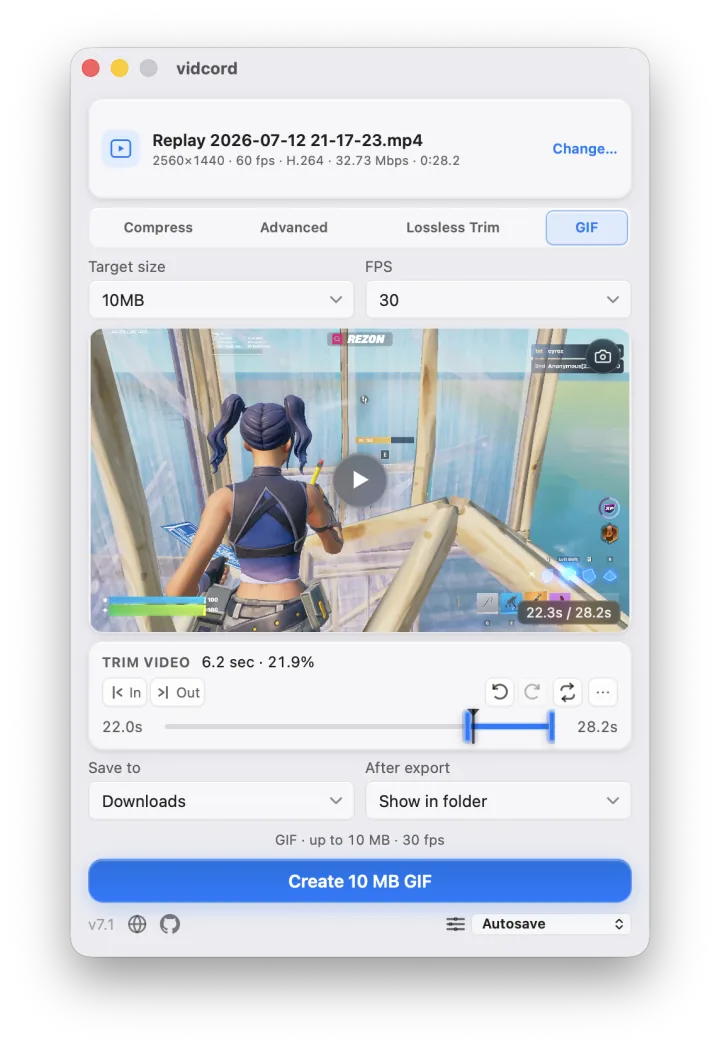
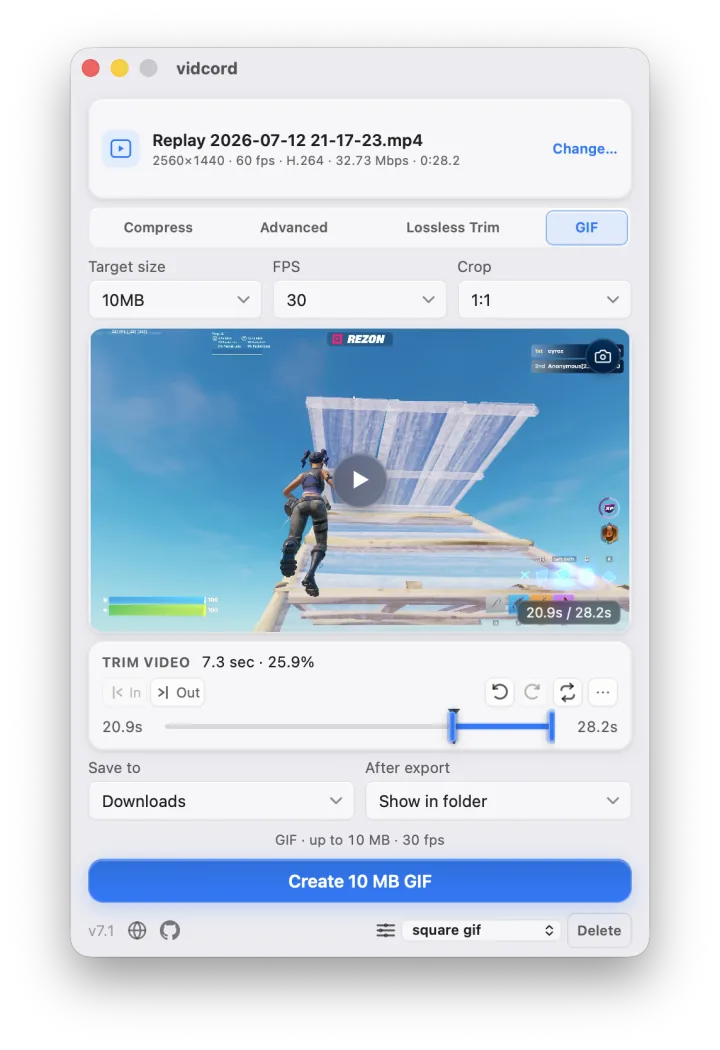
Keep crop selector visible in GIF Mode

diff --git a/site/index.html b/site/index.html
@@ -94,7 +94,7 @@
               "Saved named compression and mode presets with Autosave, restore, and delete controls",
               "Lossless Trim stream-copy exports with outward keyframe-aligned boundaries and optional audio-track removal",
               "Discord upload targets: current 10 MB, 50 MB, 100 MB, and 500 MB limits plus a legacy 25 MB target",
-              "Animated GIF exports for Discord's 10 MB Free and 50 MB Nitro Basic tiers at 15, 30, or Discord-safe maximum 50 FPS",
+              "Animated GIF exports for Discord's 10 MB Free and 50 MB Nitro Basic tiers at 15, 30, or Discord-safe maximum 50 FPS with aspect-ratio cropping",
               "Output FPS controls with source-aware 24, 30, and 60 FPS presets plus advanced custom FPS",
               "Output destinations for Downloads, the imported clip folder, a remembered custom folder, or an after-compression save prompt",
               "Completion actions that copy the output file to the system clipboard by default or reveal it in the platform file manager",
@@ -236,7 +236,8 @@
             Lossless Trim cuts on source keyframes without re-encoding, and size-based exports offer
             it automatically when the selected segment is estimated to fit the target. GIF Mode
             creates animated GIFs for the 10 MB Free and 50 MB Nitro Basic tiers at 15, 30, or
-            Discord-safe maximum 50 FPS.
+            Discord-safe maximum 50 FPS with the same aspect-ratio crop presets used by video
+            exports.
           </p>
 
           <div class="hero-actions">
@@ -370,7 +371,7 @@
             Pick a current 10, 50, 100, or 500 MB Discord limit—or the legacy 25 MB target—cap FPS
             if needed, and let the app calculate the bitrate. GIF Mode provides focused 10 MB Free
             and 50 MB Nitro Basic animated GIF exports with selectable 15, 30, or Discord-safe
-            maximum 50 FPS.
+            maximum 50 FPS plus aspect-ratio crop presets.
           </p>
         </article>
         <article>
@@ -437,7 +438,8 @@
           <h2>Simple when you want it. Precise when you need it.</h2>
           <p>
             Advanced mode lets you set a custom target size, resolution, aspect-ratio crop, FPS,
-            audio normalization, and encoder string. A dedicated Lossless Trim mode uses
+            audio normalization, and encoder string; GIF Mode keeps the aspect-ratio crop selector
+            available because it also applies to GIF output. A dedicated Lossless Trim mode uses
             keyframe-aligned stream copying, hides unrelated settings, and can remove audio without
             re-encoding the video. Size-based exports offer the same choice when the selected
             segment is estimated to fit the target at the source bitrate, then lets you choose
@@ -569,7 +571,7 @@
               height="1668"
               loading="lazy"
               decoding="async"
-              alt="vidcord GIF mode with Discord size targets, frame-rate control, trim timeline, and Create GIF button"
+              alt="vidcord GIF mode with Discord size targets, frame-rate and crop controls, trim timeline, and Create GIF button"
             />
           </picture>
         </div>

diff --git a/src/App.tsx b/src/App.tsx
@@ -2607,6 +2607,22 @@ export default function App() {
                           ))}
                         </select>
                       </label>
+                      <label className="gif-crop-label">
+                        Crop
+                        <select
+                          value={cropAspectRatio}
+                          onChange={(event) => {
+                            setCropAspectRatio(event.target.value);
+                            saveSettings({ crop_aspect_ratio: event.target.value });
+                          }}
+                        >
+                          {cropOptions.map((option) => (
+                            <option key={option.value} value={option.value}>
+                              {option.label}
+                            </option>
+                          ))}
+                        </select>
+                      </label>
                     </div>
                   )}
 

diff --git a/src/App.css b/src/App.css
@@ -1595,7 +1595,8 @@ select optgroup {
 }
 
 .gif-settings-row .target-label,
-.gif-settings-row .gif-fps-label {
+.gif-settings-row .gif-fps-label,
+.gif-settings-row .gif-crop-label {
   flex: 1 1 0;
   min-width: 0;
 }

diff --git a/README.md b/README.md
@@ -115,8 +115,9 @@ first pass lands too large.
   - 500 MB @ native — Nitro Full
 - **GIF Mode** — export an optimized animated GIF for the 10 MB Discord Free
   or 50 MB Nitro Basic tier at 15, 30, or Discord-safe maximum 50 FPS. Video-only encoder, audio,
-  and advanced controls are hidden while GIF Mode is active. Higher frame rates
-  trade spatial detail for motion, and oversized GIFs are retried at
+  and unrelated video controls are hidden while GIF Mode is active; the aspect-ratio crop selector
+  remains available because it still applies to GIF output. Higher frame rates trade spatial detail
+  for motion, and oversized GIFs are retried at
   progressively lower visual complexity without changing the selected FPS.
 - **Advanced mode** — custom target size (MB), output resolution, aspect-ratio
   crop, FPS, audio normalization, and any FFmpeg video encoder string, with
@@ -213,7 +214,7 @@ Mode creates an animated `.gif`.
 
 | Main window                                                                                             | Advanced mode                                                                                                              | Lossless Trim                                                                                                            | GIF mode                                                                                                                |
 | ------------------------------------------------------------------------------------------------------- | -------------------------------------------------------------------------------------------------------------------------- | ------------------------------------------------------------------------------------------------------------------------ | ----------------------------------------------------------------------------------------------------------------------- |
-| ![vidcord main window with trim timeline, size preset picker, and progress bar](site/assets/window.png) | ![vidcord Advanced mode: custom target size, output resolution, and FFmpeg encoder override](site/assets/advancedmode.png) | ![vidcord Lossless Trim mode with keyframe-aligned trim controls and no video re-encoding](site/assets/losslesstrim.png) | ![vidcord GIF mode with Discord size target, FPS picker, trim timeline, and Create GIF button](site/assets/gifmode.png) |
+| ![vidcord main window with trim timeline, size preset picker, and progress bar](site/assets/window.png) | ![vidcord Advanced mode: custom target size, output resolution, and FFmpeg encoder override](site/assets/advancedmode.png) | ![vidcord Lossless Trim mode with keyframe-aligned trim controls and no video re-encoding](site/assets/losslesstrim.png) | ![vidcord GIF mode with Discord size target, FPS and crop controls, trim timeline, and Create GIF button](site/assets/gifmode.png) |
 
 | Output file                                                                                 | Windows context menu                                                                                            | macOS Finder                                                                                          |
 | ------------------------------------------------------------------------------------------- | --------------------------------------------------------------------------------------------------------------- | ----------------------------------------------------------------------------------------------------- |
@@ -286,9 +287,10 @@ For more distros, manual installs, or troubleshooting, read
 3. **Pick a mode or preset** — choose **Compress**, **Advanced**, **Lossless
    Trim**, or **GIF**, then select a 10/25/50/100/500 MB target where that mode
    applies. Advanced exposes custom target size, resolution, crop, FPS, audio
-   normalization, and encoder controls; leaving its size empty uses the source
-   bitrate without a file-size limit. Standard mode can cap output FPS at 24,
-   30, or 60 when those values do not exceed the source frame rate.
+   normalization, and encoder controls; GIF Mode keeps the crop selector available
+   because it applies to GIF output. Leaving its size empty uses the source bitrate
+   without a file-size limit. Standard mode can cap output FPS at 24, 30, or 60
+   when those values do not exceed the source frame rate.
 4. **Trim** (optional) — drag the handles or use `I` / `O` to stamp the
    playhead. `Space` plays the selected range from the current playhead when it
    is inside the trim.

diff --git a/CHANGELOG.md b/CHANGELOG.md
@@ -20,6 +20,8 @@
 
 ### UI
 
+- Kept the persisted aspect-ratio crop selector visible in GIF Mode so switching workflows does not hide a crop that still applies to the export.
+- Updated the GIF Mode website screenshot to show the crop selector alongside the target and FPS controls.
 - Refreshed the website's Compress, Advanced, Lossless Trim, and GIF mode screenshots and added a dedicated Lossless Trim showcase section.
 - Fixed the settings-preset footer form so its controls stay visible in a single row at the fixed app size.
 - Reorganized the export workflow around labeled Compress, Advanced, Lossless Trim, and GIF tabs, collapsed loaded videos into a compact file summary, balanced the Lossless Trim settings row, placed trim controls directly beneath the preview, and moved secondary timeline tools into an overflow panel.
